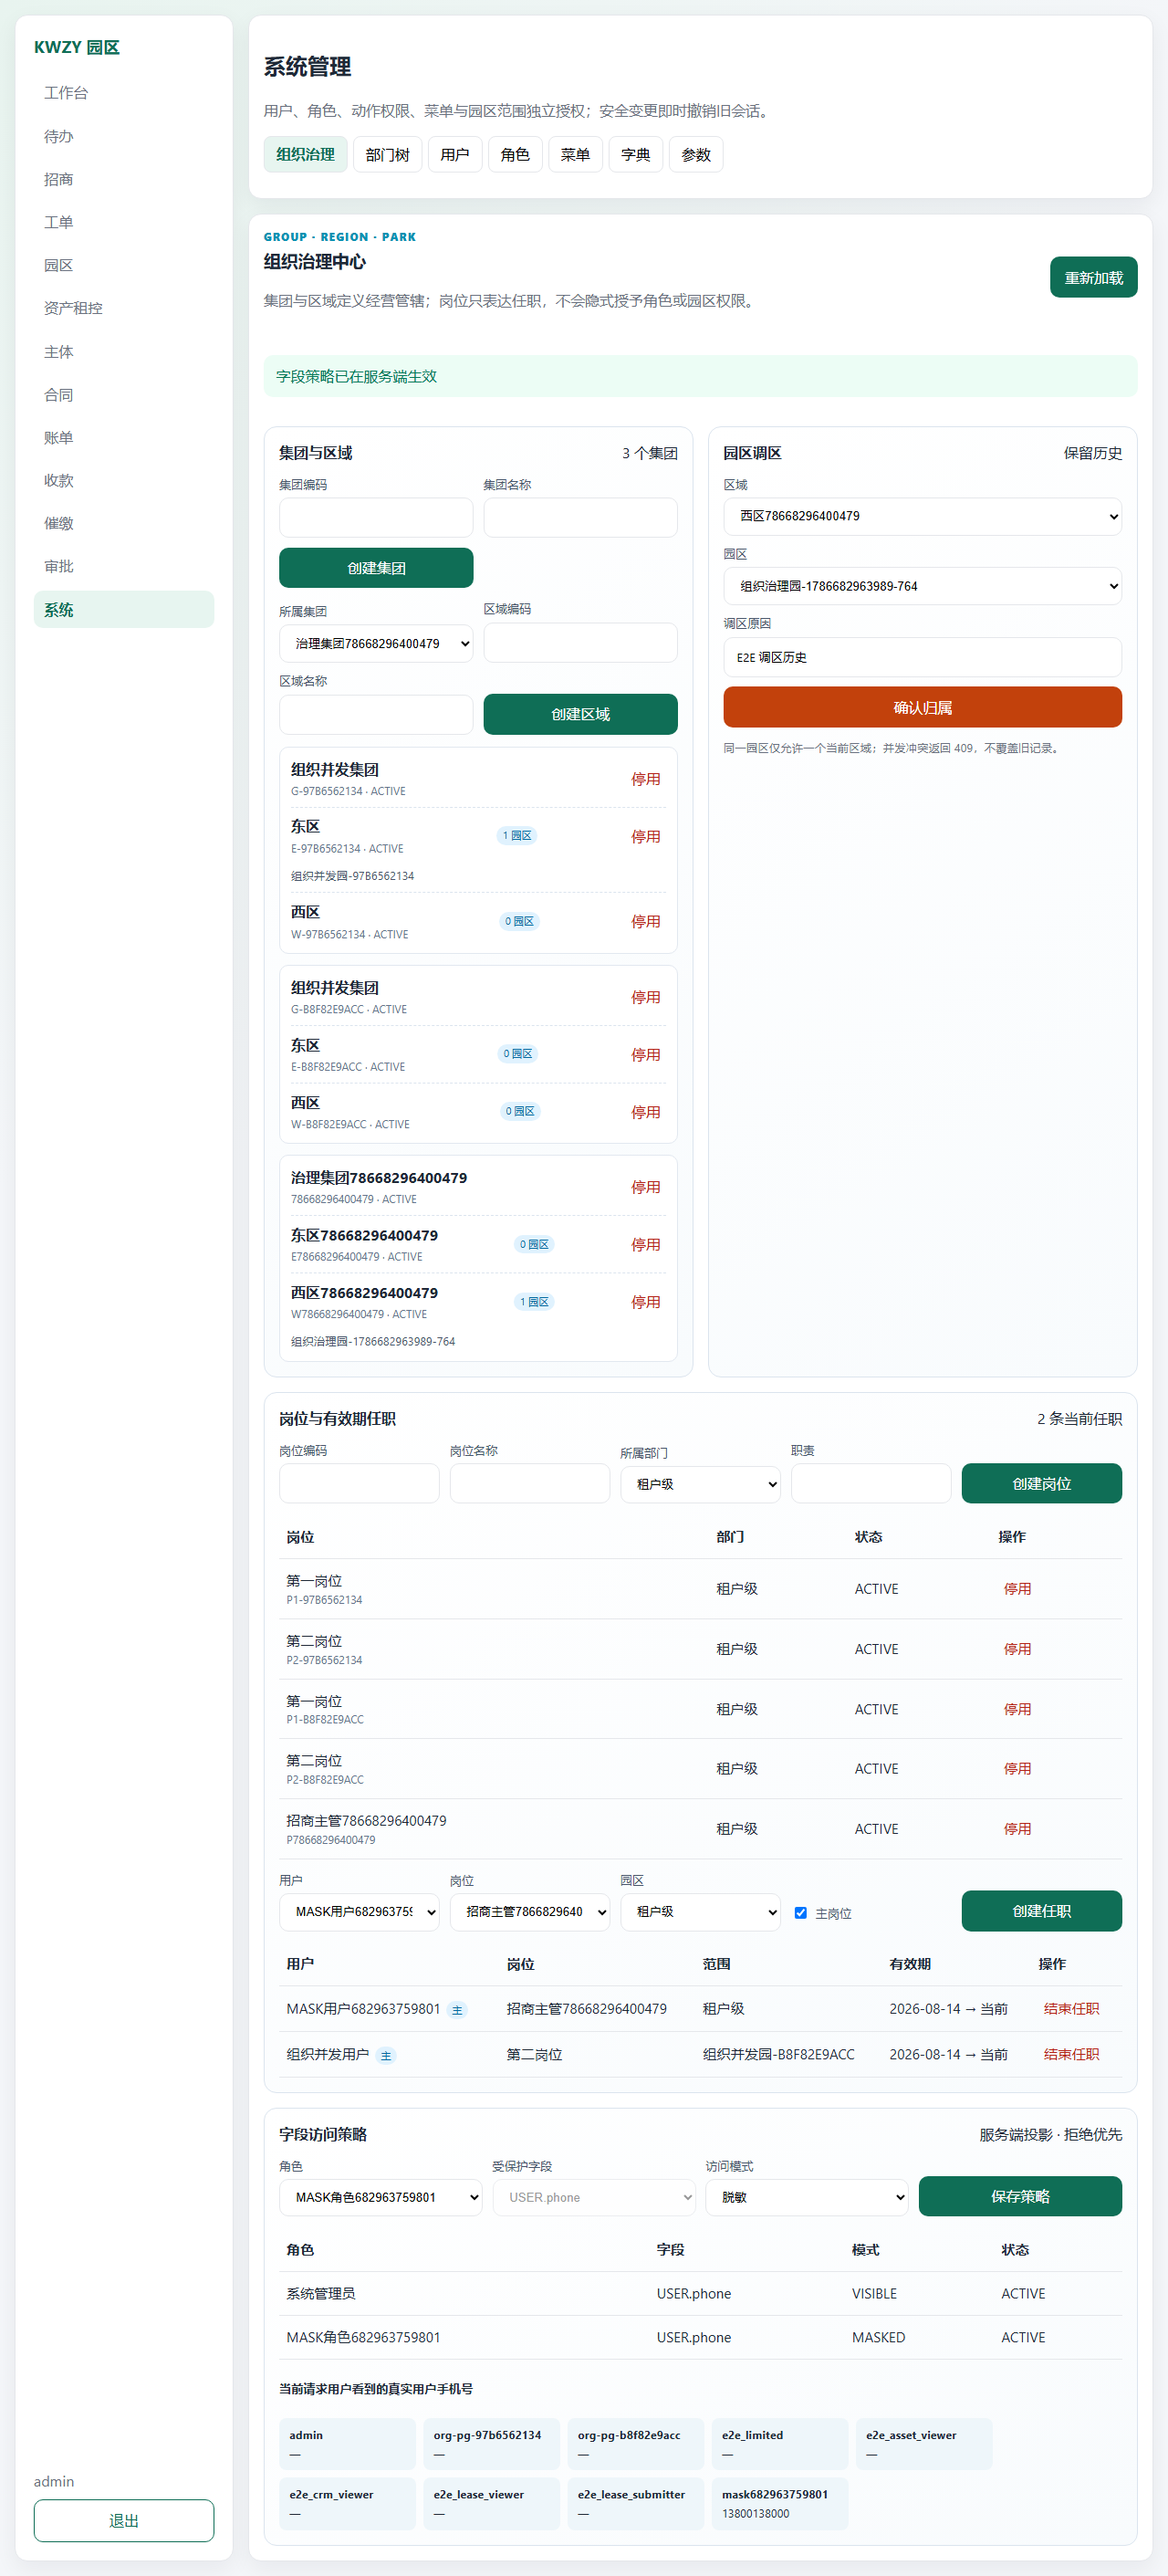
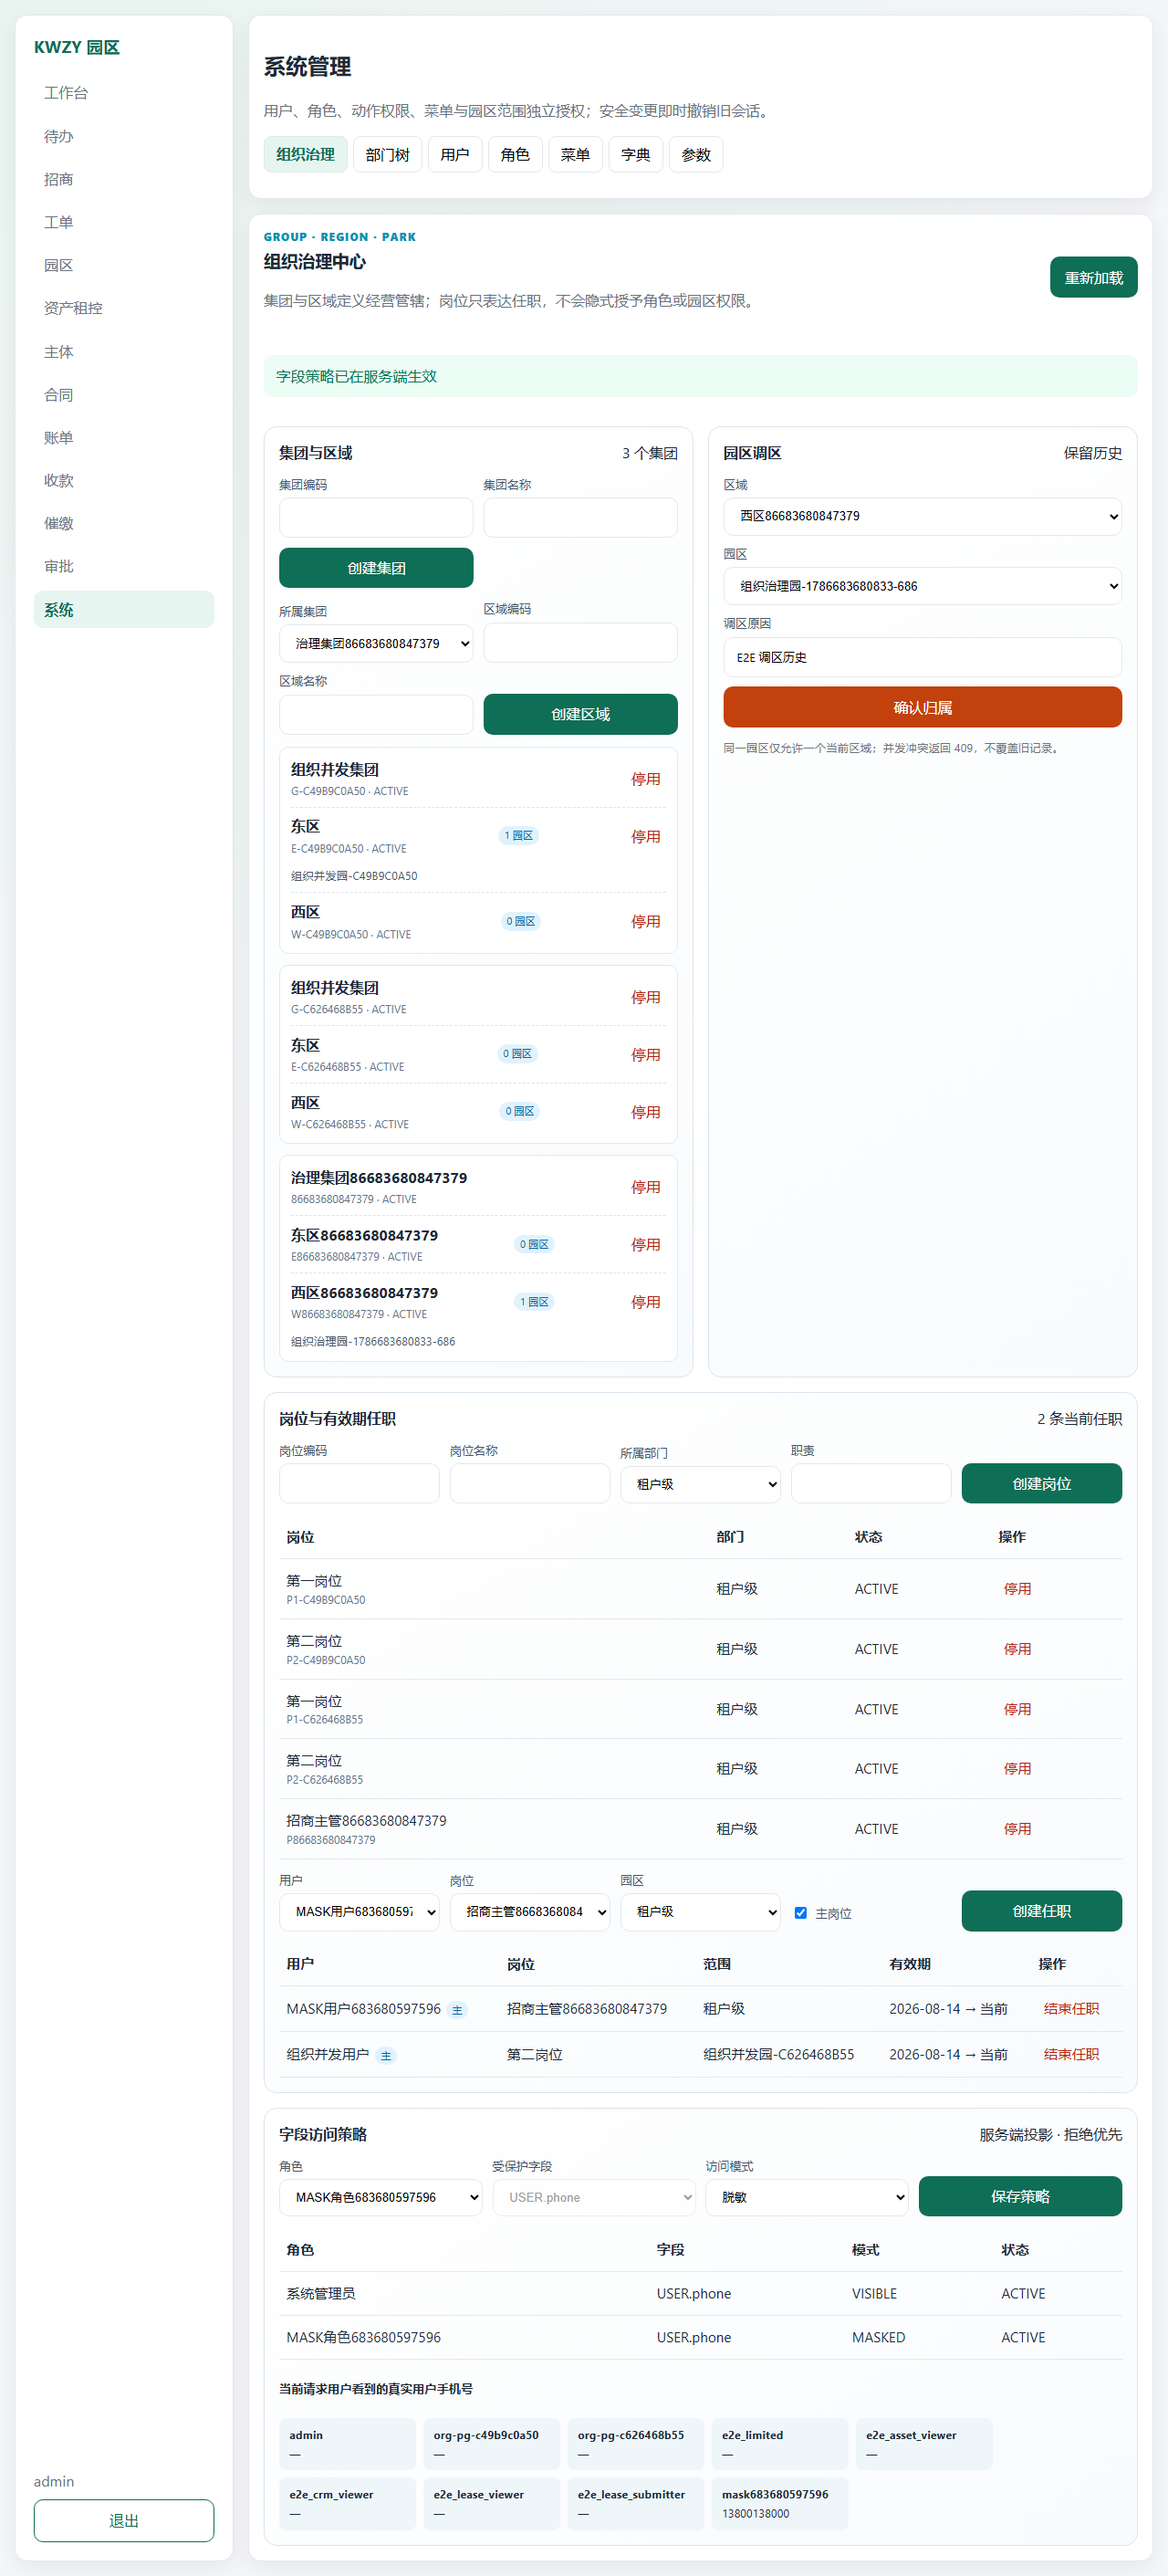
docs: record clean organization governance acceptance

diff --git a/docs/06-implementation/refactor-agent-state.md b/docs/06-implementation/refactor-agent-state.md
@@ -7,12 +7,12 @@
 | 更新时间 | 2026-08-14（Asia/Shanghai） |
 | 仓库 | `D:\重构python\kwzy-python` |
 | 分支 | `feat/full-rebuild-completion`（从 repair `37d7cf7da768eef8d7bcc743635117b8f34c7bbb` 创建） |
-| 已验证 HEAD | repair 实现 `a9267d4c30096a7c80d66588ab06bc6838b32b0d`；完整推送记录 HEAD `37d7cf7da768eef8d7bcc743635117b8f34c7bbb` |
-| 远程同步 | repair 已与 origin 同 SHA；完成分支尚未首次提交/推送；禁止 force |
-| 工作树 | 用户基线原为 clean；当前组织治理纵切 25/25 总闸门通过，待 commit/push |
+| 已验证 HEAD | `8bb87707251de1e4c22cf4009928c71d84958b8a`；clean SHA 25/25 总闸门通过 |
+| 远程同步 | `origin/feat/full-rebuild-completion` 与 `8bb8770` 一致；未 force；当前只在补充 clean-SHA 证据 |
+| 工作树 | 实现提交复验前为 clean；当前仅有复验截图与证据文档变更 |
 | Alembic | 唯一 head `n0c68d3e5f42`；fresh upgrade 和 head→-1→head 通过 |
 | 当前阶段 | 独立验收仍为 2 implemented / 1 blocked / 17 missing；关键旅程 1 已关闭，组合能力 1 因完整审批/审计仍缺失而保持 `MISSING` |
-| 当前 OpenSpec | `complete-platform-organization-governance` strict PASS、26/27，仅交付项待完成；`complete-identity-system-admin` 51/53，两个真实旧数据任务保持外部门禁 |
+| 当前 OpenSpec | `complete-platform-organization-governance` strict PASS、27/27，待同步主规格与归档；`complete-identity-system-admin` 51/53，两个真实旧数据任务保持外部门禁 |
 | 生产部署/迁移 | `NOT_EXECUTED`，保持人工授权门禁 |
 
 ## 本轮已完成
@@ -25,7 +25,7 @@
 - [x] 完成集团/区域生命周期、园区有效期归属历史、岗位任职和服务端字段投影；任职不隐式授予 RBAC 或园区范围。
 - [x] 完成 PC 组织治理工作区及桌面/平板/移动端加载、只读、403、409、503/重试和无横向溢出验收，三张截图已留存。
 - [x] 完成 PostgreSQL 16 约束/并发与组织治理合成 ETL 的 dry/apply/幂等/对账/回滚，真实旧 schema/脱敏样本仍保持外部门禁。
-- [x] 在 repair 基线加当前工作树上运行 25 项总验收，25/25 exit 0；等待正常提交、推送并在 clean SHA 复验。
+- [x] 正常提交并推送 `8bb8770 feat: complete platform organization governance`，未 force；在该 clean SHA 上再次运行 25 项总验收，25/25 exit 0。
 
 - [x] 读取用户全量 V2 目标和四份既有总控文档。
 - [x] 核对 Git：发现旧验收绑定 `23fa781`，当前代码已推进到 `d9c0b0b`。
@@ -61,12 +61,12 @@
 - [x] 将已落地基础合同 5 份 delta 同步主规格并归档 `2026-08-13-implement-lease-contract`，消除合同 V2 增量基线缺口。
 - [x] 完成 `implement-contract-lifecycle-v2` proposal/design、10 份 delta specs 和 102 项任务；change strict 与全量 OpenSpec 49/49 PASS。
 
-## 最新机器证据（组织治理工作树）
+## 最新机器证据（组织治理 clean SHA）
 
 | 项 | 结果 |
 | --- | --- |
-| 工作树报告 | `infra/local-staging/out/acceptance_20260814_125003.json`（gitignored，本机），25/25 PASS；追踪副本在本纵切证据目录 |
-| 时间/基线 | 2026-08-14 12:43:27–12:50:03 +08:00；395489 ms；Git HEAD `37d7cf7` 加当前整改 diff |
+| 精确提交报告 | `infra/local-staging/out/acceptance_20260814_130159.json`（gitignored，本机），25/25 PASS；追踪副本 `acceptance-clean-8bb8770.json` |
+| 时间/提交 | 2026-08-14 12:55:24–13:01:59 +08:00；395014 ms；`8bb87707251de1e4c22cf4009928c71d84958b8a` |
 | PostgreSQL 16 | fresh base→`n0c68d3e5f42` PASS；head→-1→head PASS；唯一 head |
 | pytest | 253 passed，1 dependency deprecation warning |
 | 前端 | lint PASS；typecheck PASS；Vitest 6 passed；production build PASS |
@@ -74,9 +74,9 @@
 | OpenAPI | 7 runtime/YAML contract tests + YAML strict PASS |
 | OpenSpec | strict 50 passed / 0 failed |
 | ETL | core fast + acceptance、Identity、Asset、CRM、Contract、Organization Governance 均 PASS；组织治理 1/2/3/2/2/2 对账、幂等、无授权行/原始 PII、rollback 全绿；真实旧数据未演练 |
-| 性能 | 1000 请求、并发 25、p95 356.22 ms、118.296 RPS、0% 错误，门槛 PASS |
-| 备份恢复 | PASS，dump 985808 bytes，restore 65 tables |
-| 扩展 secrets scan | PASS，650 tracked/untracked non-ignored files |
+| 性能 | 1000 请求、并发 25、p95 302.694 ms、128.8 RPS、0% 错误，门槛 PASS |
+| 备份恢复 | PASS，dump 985813 bytes，restore 65 tables |
+| 扩展 secrets scan | PASS，654 tracked/untracked non-ignored files |
 
 ## 已确认的产品级阻塞
 
@@ -91,7 +91,7 @@
 
 ## 下一恢复点
 
-1. 正常 commit/push `complete-platform-organization-governance`，在 clean SHA 复跑总闸门并回填交付提交。
+1. 同步并归档 27/27 的 `complete-platform-organization-governance`，严格校验主规格。
 2. 创建并实施完整审批中心/审计中心的下一垂直切片，继续关闭组合能力 1。
 3. 建设事件驱动待办、规则/定时任务和多角色可配置工作台，继续关闭组合能力 2。
 4. `complete-identity-system-admin` 保持 active：真实 schema dump 和旧密码样本为 `BLOCKED_EXTERNAL`，不得用合成 fixture 冒充或错误归档；生产部署仍须单独人工授权。

diff --git a/docs/06-implementation/evidence/platform-organization-governance/acceptance-summary.md b/docs/06-implementation/evidence/platform-organization-governance/acceptance-summary.md
@@ -1,7 +1,7 @@
 # 平台组织治理纵切验收证据
 
-> 执行时间：2026-08-14 12:43:27–12:50:03（Asia/Shanghai）
-> 执行基线：`37d7cf7da768eef8d7bcc743635117b8f34c7bbb` 加当前组织治理整改工作树
+> clean-SHA 复验时间：2026-08-14 12:55:24–13:01:59（Asia/Shanghai）
+> 精确提交：`8bb87707251de1e4c22cf4009928c71d84958b8a`，与 `origin/feat/full-rebuild-completion` 一致
 > 判定：本纵切 25/25 自动闸门通过；全项目仍为 `CONDITIONAL/BLOCKED`。
 
 ## 本纵切范围
@@ -16,15 +16,17 @@
 
 | 类别 | 结果 |
 | --- | --- |
-| 总闸门 | 25/25 exit 0，395489 ms |
+| 总闸门 | 25/25 exit 0，395014 ms |
 | PostgreSQL 16 | fresh upgrade 到唯一 head `n0c68d3e5f42`；downgrade -1 后 re-upgrade PASS |
 | 后端测试 | 253 passed |
 | 前端 | ESLint、Vue typecheck、6 Vitest、production build 全 PASS |
 | 浏览器 | Playwright 43 passed；组织治理 3 条包含真实 HTTP/DB/UI |
 | OpenAPI / OpenSpec | 7 tests + YAML strict PASS；50/50 strict PASS |
-| 性能 | 1000 请求、并发 25、p95 356.22 ms、118.296 RPS、0% 错误 |
-| 备份恢复 | dump 985808 bytes；恢复 65 tables；PASS |
-| 敏感信息 | 650 个 tracked/untracked non-ignored 文件扫描 PASS |
+| 性能 | 1000 请求、并发 25、p95 302.694 ms、128.8 RPS、0% 错误 |
+| 备份恢复 | dump 985813 bytes；恢复 65 tables；PASS |
+| 敏感信息 | 654 个 tracked/untracked non-ignored 文件扫描 PASS |
+
+clean-SHA 机器副本：`acceptance-clean-8bb8770.json`、`organization-governance-etl-clean-8bb8770.json` 和 `http-performance-clean-8bb8770.json`。工作树首轮报告同时保留，用于证明提交前后门槛一致。
 
 ## 组织治理 ETL
 

diff --git a/docs/06-implementation/full-rebuild-traceability-matrix.md b/docs/06-implementation/full-rebuild-traceability-matrix.md
@@ -1,13 +1,13 @@
 # 瞰维智管 V2 独立验收能力矩阵
 
 > 审计日期：2026-08-14（Asia/Shanghai）
-> 实现证据基线：repair `37d7cf7da768eef8d7bcc743635117b8f34c7bbb` 加当前组织治理整改工作树；交付提交待正常 push 后回填。
+> 组织治理实现证据提交：`8bb87707251de1e4c22cf4009928c71d84958b8a`，与 `origin/feat/full-rebuild-completion` 一致并在 clean SHA 上复验。
 > 判定规则：只使用 `IMPLEMENTED_AND_VERIFIED`、`APPROVED_RETIRED`、`APPROVED_DEFERRED`、`BLOCKED`、`MISSING`。子能力通过但组合需求未闭环时，组合项必须判为 `MISSING`；没有人工批准，不使用 retired/deferred。
 
 ## 当前整改纵切
 
 - 分支：`feat/full-rebuild-completion`，起点 `37d7cf7da768eef8d7bcc743635117b8f34c7bbb`。
-- 当前 OpenSpec：`complete-platform-organization-governance`，proposal/design/6 specs/tasks strict PASS，实施进度 26/27；仅正常 commit/push 交付项待执行。
+- 当前 OpenSpec：`complete-platform-organization-governance`，proposal/design/6 specs/tasks strict PASS，实施进度 27/27；实现提交已正常推送，未 force。
 - 已关闭证据：集团→区域→园区历史归属、岗位任职、服务端字段策略及 PC 真实旅程；PostgreSQL 16 迁移/并发、真实 HTTP、43 条浏览器 E2E、合成 ETL、OpenAPI/OpenSpec 均通过。
 - 不变阻塞：授权旧 schema/脱敏快照、旧密码样本、真实集成凭据、远程预发与生产授权均未获得，不得因本纵切降低为完成。
 

diff --git a/docs/06-implementation/refactor-master-roadmap.md b/docs/06-implementation/refactor-master-roadmap.md
@@ -29,7 +29,7 @@
 
 ## 下一执行队列
 
-1. `complete-platform-organization-governance`：集团→区域→园区历史归属、岗位任职、字段策略、PC、PG16、HTTP/浏览器和合成 ETL已通过 25/25 总闸门；OpenSpec 26/27，仅正常提交与推送交付项待关闭。
+1. `complete-platform-organization-governance`：集团→区域→园区历史归属、岗位任职、字段策略、PC、PG16、HTTP/浏览器和合成 ETL 已通过；OpenSpec 27/27，提交 `8bb8770` 已正常推送并在 clean SHA 上再次通过 25/25 总闸门。
 2. 下一平台纵切：完整审批中心、审计中心，以及消息/规则/定时任务驱动的多角色工作台。
 3. 依次关闭资产模板、招商自动分配/意向审批、企业画像、账收匹配催缴、租户服务、设备巡检 IoT、档案签章、HR、供应链、园企服务、驾驶舱、AI/集成。
 4. 建设员工移动端与租户微信小程序并完成真实 API/数据库/浏览器（或小程序运行器）旅程，不能用 WebView 壳或本地 JSON替代。

diff --git a/openspec/changes/complete-platform-organization-governance/tasks.md b/openspec/changes/complete-platform-organization-governance/tasks.md
@@ -44,4 +44,4 @@
 
 - [x] 7.1 Run focused backend/frontend tests, type checks, build, migration drill and strict OpenSpec validation
 - [x] 7.2 Run the full acceptance suite on PostgreSQL 16 and update evidence, capability matrix, roadmap and agent state with exact results
-- [ ] 7.3 Commit the complete vertical slice and normally push `feat/full-rebuild-completion` without force
+- [x] 7.3 Commit the complete vertical slice and normally push `feat/full-rebuild-completion` without force
